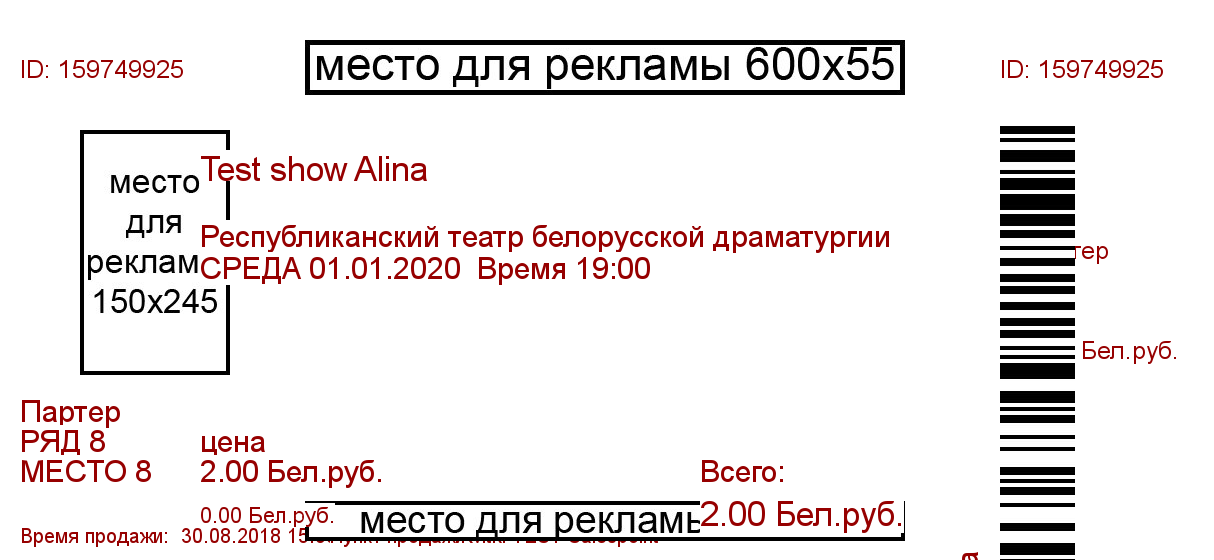
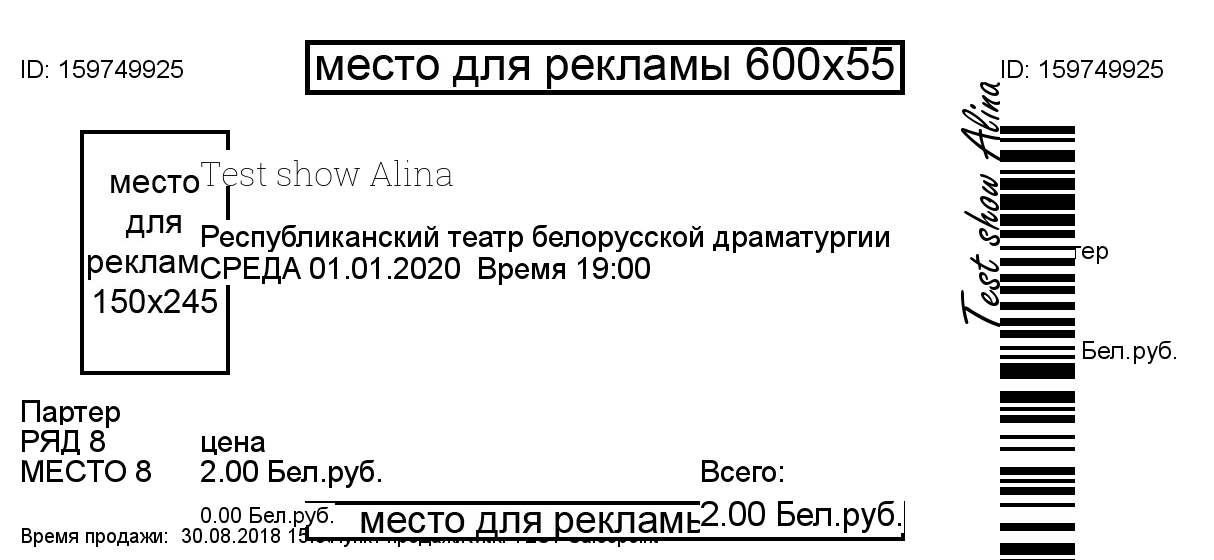
post_rotate

diff --git a/_ticket/_postscript/__init__.py b/_ticket/_postscript/__init__.py
@@ -8,46 +8,24 @@ import win32ui
 import win32gui
 import win32print
 import requests
-import math
-import yaml
 
-import collections
 import ctypes
 import time
 
-from code128image import code128_image as _c128image
 from PIL import ImageWin
 from PIL import Image
-
-
-def ordered_load(stream, Loader=yaml.Loader,
-                 object_pairs_hook=collections.OrderedDict):
-    class OrderedLoader(Loader):
-        pass
-
-    def construct_mapping(loader, node):
-        loader.flatten_mapping(node)
-        return object_pairs_hook(loader.construct_pairs(node))
-    OrderedLoader.add_constructor(
-        yaml.resolver.BaseResolver.DEFAULT_MAPPING_TAG,
-        construct_mapping)
-    return yaml.load(stream, OrderedLoader)
 
 
 # @decorators.profiler('_postscript')
 class PSPrint:
     @decorators.profiler('_postscript')
-    def __init__(self, ticket):
+    def __init__(self, printerData):
         if getattr(sys, 'frozen', False):
             self.BASEDIR = os.path.dirname(sys.executable)
         else:
             self.BASEDIR = sys.path[0]
 
-        self.TICKET = ticket
-        # self.PLP_JSON_DATA = plp_json_data
-        # chdir(self.BASEDIR)
-
-        prnt = self.TICKET['printerData']['printerName']
+        prnt = printerData['printerName']
         try:
             self.hprinter = win32print.OpenPrinter(prnt)
         except Exception as e:
@@ -100,75 +78,12 @@ class PSPrint:
                 ctypes.windll.user32.MessageBoxW(0, message, title, 0)
                 printjobs = win32print.EnumJobs(self.hprinter, 0, 999)
 
-    def _setFont(self, font_name, w=None, h=None, weight=None, orientation=0):
-        if font_name is not None:
-            print(font_name)
-            _log_font = [font_name]
-
-            def callback(font, tm, fonttype, _font):
-                if font.lfFaceName == _font[0]:
-                    _font[0] = font
-                return True
-            win32gui.EnumFontFamilies(self.DEVICE_CONTEXT_HANDLE, None,
-                                      callback, _log_font)
-            self.log_font = _log_font[0]
-
-        self.log_font.lfWidth = int(w)
-        self.log_font.lfHeight = int(h)
-        self.log_font.lfWeight = int(weight)
-        self.log_font.lfOrientation = int(orientation) * 10
-        self.log_font.lfEscapement = int(orientation) * 10
-        font_handle = win32gui.CreateFontIndirect(self.log_font)
-        win32gui.SelectObject(self.DEVICE_CONTEXT_HANDLE, font_handle)
-
-    def _placeText(self, x, y, text):
-        ctypes.windll.gdi32.TextOutW(self.DEVICE_CONTEXT_HANDLE, x, y,
-                                     text, len(text))
-
-    def _indexedRotate(self, degrees):
-        return math.floor((degrees % 360) / 90 + 0.5)
-
-    def _rotatePicture(self, _pic, degrees):
-        if degrees % 360 == 0:
-            return _pic
-
-        _temp_fn = '{0}_{1}.png'.format(os.path.join(self.BASEDIR, 'img',
-                                                     'temprotate'), degrees)
-        _pic = _pic.transpose((self._indexedRotate(degrees) - 1) % 3 + 2)
-        _pic.save(_temp_fn, 'png')
-        _pic = Image.open(_temp_fn)
-        return _pic
-
-    def _placeImage(self, x, y, url, rotate):
-        _picture_fn = '{0}_{1}.png'.format(
-            os.path.join(self.BASEDIR, 'img', os.path.basename(url)), rotate)
-        print('place image from', _picture_fn)
-        if not os.path.isfile(_picture_fn):
-            cert_path = os.path.abspath(os.path.join(self.BASEDIR, 'certifi', 'cacert.pem'))
-            r = requests.get(url, verify=cert_path)
-            r.raise_for_status()
-
-            with open(_picture_fn, 'wb') as fd:
-                # print('with ', _picture_fn)
-                for chunk in r.iter_content(chunk_size=128):
-                    fd.write(chunk)
-            _pic = self._rotatePicture(Image.open(_picture_fn), rotate)
-
-            # print('save')
-            _pic.save(_picture_fn, 'PNG')
-
-        _pic = Image.open(_picture_fn)
-        dib = ImageWin.Dib(_pic)
-        dib.draw(self.DEVICE_CONTEXT_HANDLE,
-                 (x, y, x + _pic.size[0], y + _pic.size[1]))
-
-    def _placeC128(self, text, x, y,
-                   width, height, thickness, rotate, quietzone):
-        file1 = '{0}_1_{1}.png'.format(
-            os.path.join(self.BASEDIR, 'img', 'tmp'), rotate)
-        _c128image(
-            text, int(width), int(height), quietzone).save(file1, 'JPEG')
-        _pic = self._rotatePicture(Image.open(file1), rotate)
+    def _placeImage(self, x, y, img_basename):
+        bmp_fn = os.path.join(self.BASEDIR, 'img', img_basename)
+        print('place image from', bmp_fn)
+        if not os.path.isfile(bmp_fn):
+            raise ValueError('Can not open "{bmp_fn}".'.format(bmp_fn=bmp_fn))
+        _pic = Image.open(bmp_fn)
         dib = ImageWin.Dib(_pic)
         dib.draw(self.DEVICE_CONTEXT_HANDLE,
                  (x, y, x + _pic.size[0], y + _pic.size[1]))
@@ -190,99 +105,13 @@ class PSPrint:
         self.DEVICE_CONTEXT.EndPage()
         self.DEVICE_CONTEXT.EndDoc()
 
-    def _getInstanceProperty(self, key, instance, field, mandatory=False):
-        if key in instance:
-            return instance.get(key)
-        if key in field.get('common', []):
-            return field.get('common').get(key)
-        # if mandatory:
-        #     print('Text without {0} - {1}'.format(key, field))
-        return None
-
     @decorators.profiler('_ticket.printTicket')
     def printTicket(self, bmp_fn=None):
+        if bmp_fn is None:
+            raise ValueError('Missing ticket bitmap file name')
+
         self._startDocument()
-        print('bitmap filename is', bmp_fn)
-        if bmp_fn is not None:
-            print('Printing from bitmap', bmp_fn)
-            self._placeImage(0, 0, bmp_fn, 0)
-            self._printDocument()
-            return
-
-        # Load ticket layout file
-        default_lo_fn = 'layout.yaml'
-        layout_url = self.TICKET.get('layout', {}).get('url', '')
-        layout_fn = self.TICKET.get('layout', {}).get('name', '')
-        if layout_fn:
-            layout_fn = layout_fn + '.yaml'
-        layout_fn = layout_fn or os.path.basename(layout_url) or default_lo_fn
-        layout_file_path = os.path.join(self.BASEDIR, 'config', layout_fn)
-
-        if not os.path.isfile(layout_file_path):
-            if layout_url:
-                cert_path = os.path.abspath(
-                    os.path.join(self.BASEDIR, 'certifi', 'cacert.pem'))
-                r = requests.get(layout_url, verify=cert_path)
-
-                if r.status_code == requests.codes.ok:
-                    with open(layout_file_path, 'wb') as fd:
-                        for chunk in r.iter_content(chunk_size=128):
-                            fd.write(chunk)
-                else:
-                    layout_file_path = os.path.join(
-                        self.BASEDIR, 'config', default_lo_fn)
-
-        with open(layout_file_path, 'r', encoding='utf-8') as layout_file:
-            ps_layout = ordered_load(layout_file, yaml.SafeLoader)
-
-        for layout_key in ps_layout.get('Layout').keys():
-            # print('layout_key : {0}'.format(layout_key))
-            field = ps_layout.get('Layout')[layout_key]
-            value = self.TICKET.get(
-                layout_key,
-                self.TICKET.get('transactionData', {}).get(layout_key, '')
-            )
-            if value == '':
-                print('skip layout_key {0}'.format(layout_key))
-                continue
-
-            if field['type'] == 'text':
-                for instance in field['instances']:
-                    font_name   = self._getInstanceProperty('font_name', instance, field)
-                    font_height = self._getInstanceProperty('font_height', instance, field)
-                    font_width  = self._getInstanceProperty('font_width', instance, field)
-                    font_weight = self._getInstanceProperty('font_weight', instance, field)
-                    x           = self._getInstanceProperty('x', instance, field)
-                    y           = self._getInstanceProperty('y', instance, field)
-                    if not (font_height and font_width and font_weight and x and y):
-                        continue
-                    orientation = self._getInstanceProperty('orientation', instance, field)     or 0
-                    prefix      = self._getInstanceProperty('prefix', instance, field) or ''
-                    suffix      = self._getInstanceProperty('suffix', instance, field) or ''
-                    self._setFont(font_name, font_width, font_height, font_weight, orientation)
-                    self._placeText(int(x), int(y), '{0}{1}{2}'.format(prefix, value, suffix))
-                continue
-
-            elif field['type'] == 'image':
-                for instance in field['instances']:
-                    x           = self._getInstanceProperty('x', instance, field)
-                    y           = self._getInstanceProperty('y', instance, field)
-                    orientation = self._getInstanceProperty('orientation', instance, field)     or 0
-                    self._placeImage(int(x), int(y), value, orientation)
-                continue
-
-            elif field['type'] == 'code128':
-                for instance in field['instances']:
-                    thickness   = self._getInstanceProperty('thickness', instance, field)       or 10
-                    width       = self._getInstanceProperty('width', instance, field)           or 560
-                    height      = self._getInstanceProperty('height', instance, field)          or 100
-                    x           = instance.get('x', field.get('common', {'x': False}).get('x', False))
-                    y           = instance.get('y', field.get('common', {'y': False}).get('y', False))
-                    orientation = self._getInstanceProperty('orientation', instance, field)     or 0
-                    quietzone   = self._getInstanceProperty('quietzone', instance, field)       or False
-                    if not (x and y):
-                        continue
-                    self._placeC128(value, int(x), int(y), width, height, thickness, orientation, quietzone)
-                continue
-
+        print('Printing from bitmap', bmp_fn)
+        self._placeImage(0, 0, bmp_fn)
         self._printDocument()
+        return

diff --git a/_ticket/_bitmap/__init__.py b/_ticket/_bitmap/__init__.py
@@ -57,11 +57,25 @@ class BMPPrint:
         font_fn = os.path.join(self.BASEDIR, 'ttf', font_name+'.ttf')
         print(font_fn, font_size)
         font = ImageFont.truetype(font_fn, font_size)
-        img_txt = Image.new('RGBA', font.getsize(text), color=(255, 255, 255, 255))
+        img_txt = Image.new('RGBA', font.getsize(text),
+                            color=(255, 255, 255, 255))
         img_drw = ImageDraw.Draw(img_txt)
-        img_drw.text((0, 0), text,  font=font, fill=(150,0,0,255))
-        rotated_txt = img_txt.rotate(rotate, expand=1)
-        self.image.paste(rotated_txt, (x, y))
+        img_drw.text((0, 0), text,  font=font, fill=(0, 0, 0, 255))
+
+        if rotate % 360 == 0:
+            self.image.paste(img_txt, (x, y))
+        else:
+            rotated_txt = img_txt.rotate(rotate, expand=1)
+            img_txt.save('pre-rotate.png', 'PNG')
+            rotated_txt.save('post-rotate.png', 'PNG')
+            _pic = Image.open('post-rotate.png')
+            self.image.paste(_pic, (x, y))
+
+            # _pic = self._rotatePicture(Image.open(_picture_fn), rotate)
+            # _pic.save(_picture_fn, 'PNG')
+            # _pic = Image.open(_picture_fn)
+            # self.image.paste(_pic, (x, y))
+
 
     def _indexedRotate(self, degrees):
         return math.floor((degrees % 360) / 90 + 0.5)

diff --git a/_ticket/__init__.py b/_ticket/__init__.py
@@ -4,9 +4,14 @@ import decorators
 
 
 def print2postscript(ticket):
+    bmp_fn = print2bitmap(ticket)
     from _ticket._postscript import PSPrint
-    ps = PSPrint(ticket)
-    ps.printTicket()
+    ps = PSPrint(ticket['printerData'])
+    ps.printTicket(bmp_fn)
+
+    # from _ticket._postscript import PSPrint
+    # ps = PSPrint(ticket)
+    # ps.printTicket()
 
 
 def print2pdf(ticket):
@@ -19,9 +24,7 @@ def print2bitmap(ticket):
     bmp = BMPPrint(ticket)
     bmp.printTicket()
     print('Printed', bmp.out_fn)
-    from _ticket._postscript import PSPrint
-    ps = PSPrint(ticket)
-    ps.printTicket(bmp.out_fn)
+    return bmp.out_fn
 
     # raise Exception('print2bitmap')
     # return None
